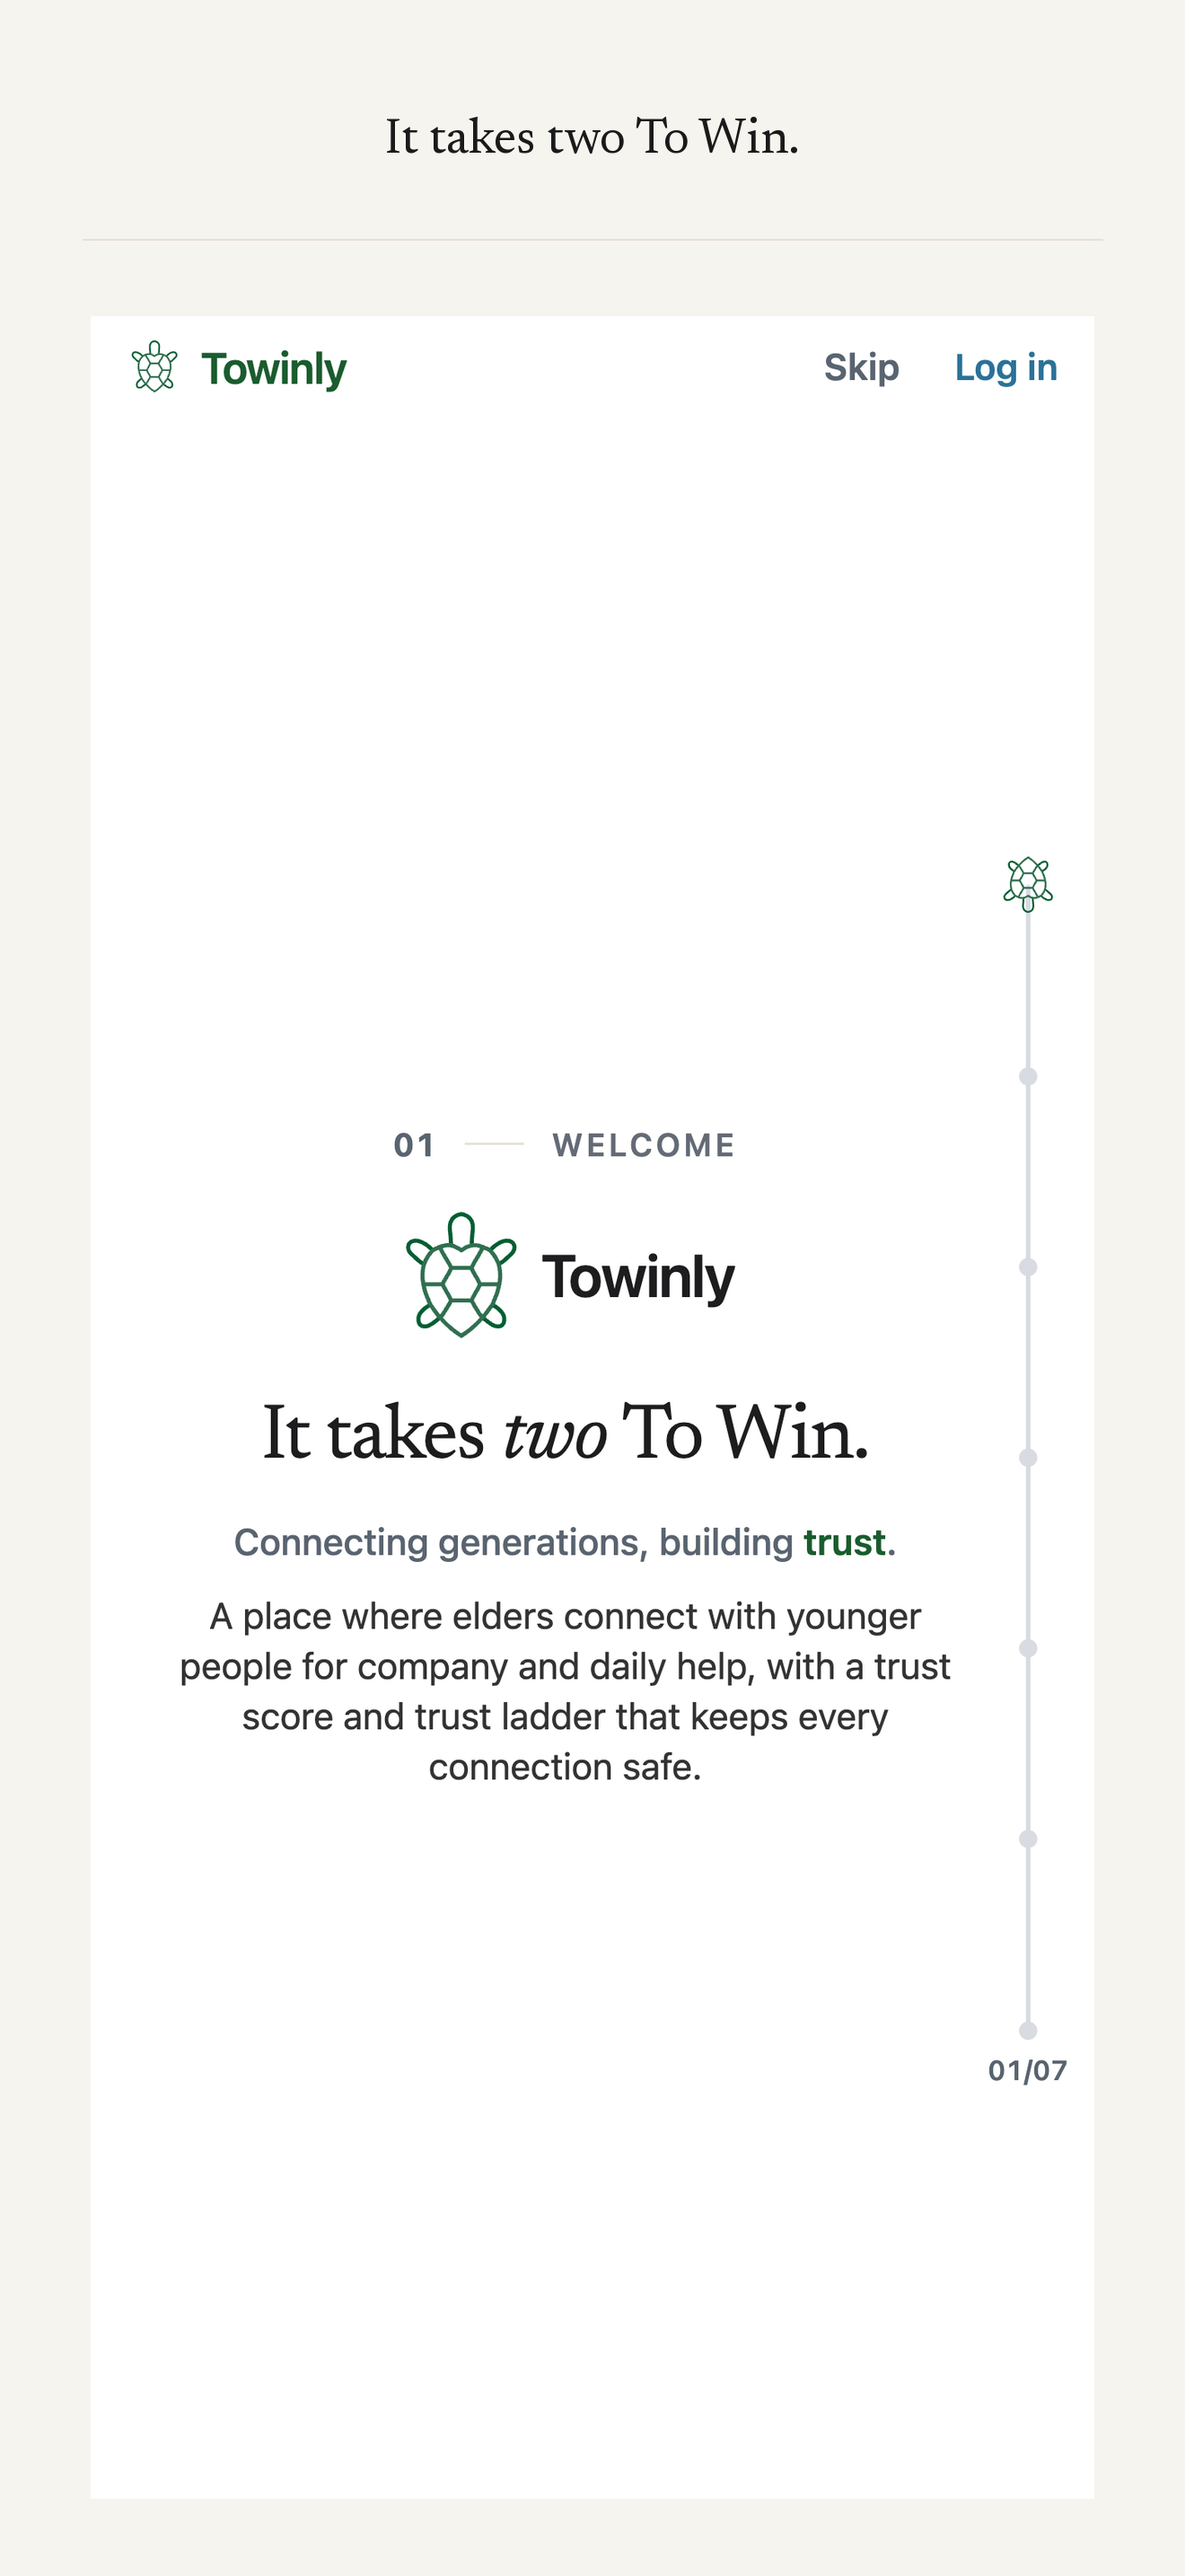
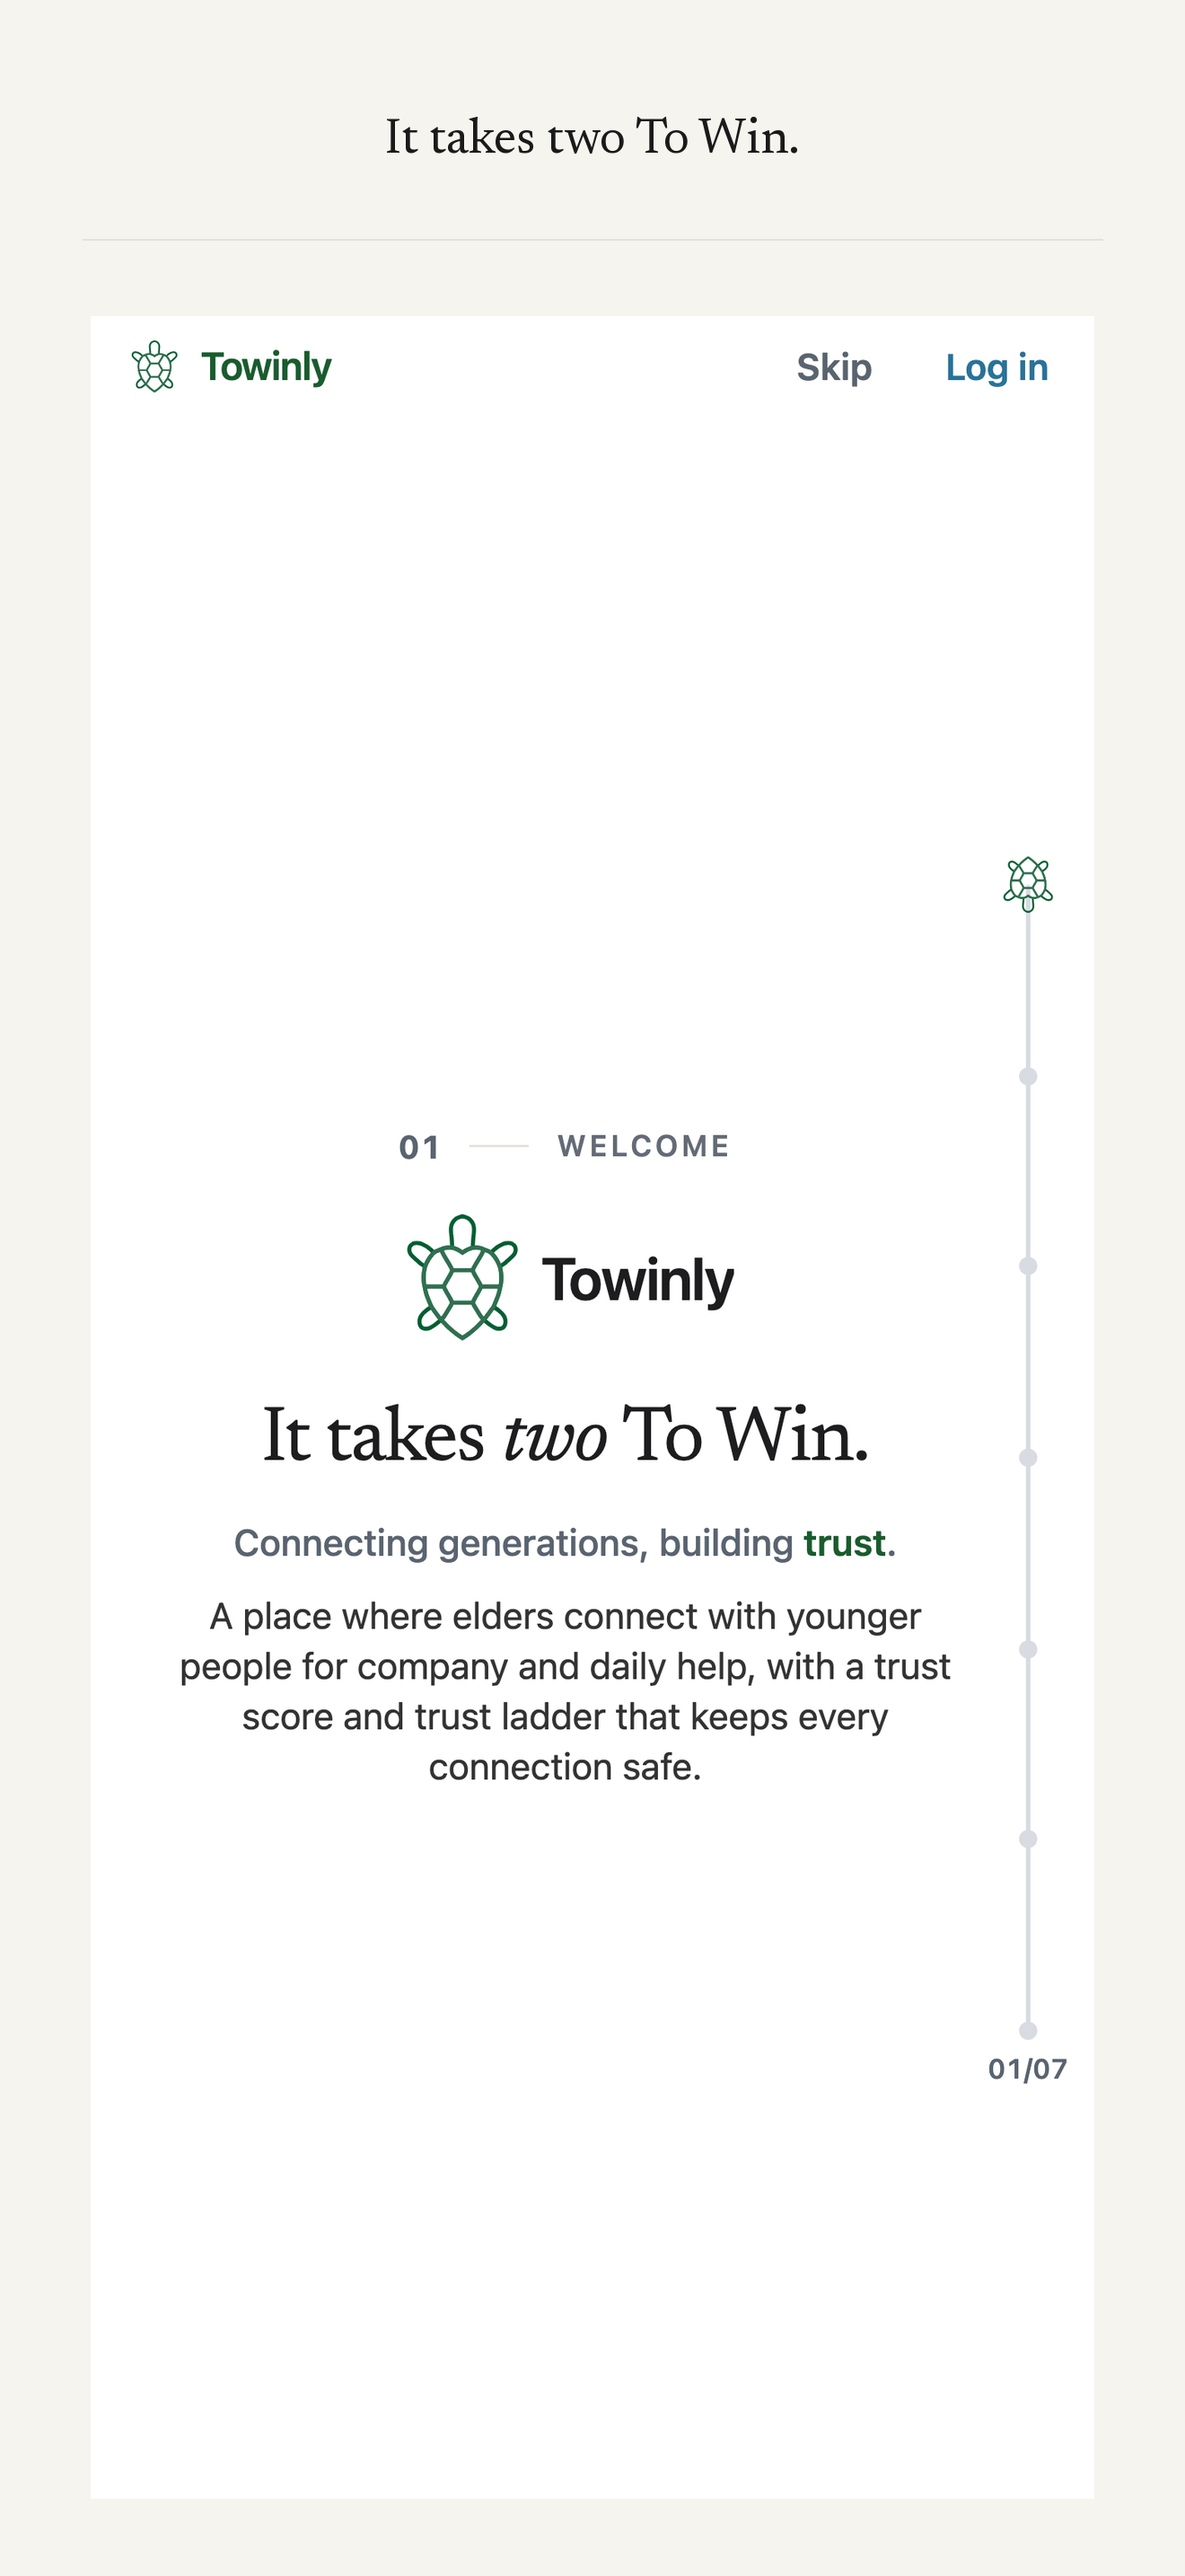
fix: HARD-117 - The store screenshots show an app that no longer exists
All eight store shots showed the UI from before the owner's
normal-density redesign of 2026-08-17 (e1e56bf): elder oversizing, the old
type ramp, parchment cards. Four of the eight screens changed again in the
location run after that, and two more changed in this hardening run. A
listing that does not match the app is a Guideline 2.3 problem and it is
the first thing a reviewer sees.

The pinned recipe worked, so they were re-captured rather than written up:
viewport 440 x 956, deviceScaleFactor 3, colorScheme light, the web
Refresh control hidden, driven through Playwright against the production
backend on all three real demo seats, from this branch. The family shot
needed no state change: Margaret's check-in for today was already true.

Nothing was deleted. The eight previous raws and all sixteen previous
baked files moved with git mv to
screenshots/superseded/2026-08-11-pre-normal-density/, with a README
saying why. The eight raws nothing bakes from were left alone and are
marked historical rather than silently re-shot.

bake_screenshots.py rendered both store sizes from the new raws and
npx jest store-screenshots passes 23 of 23.

diff --git a/docs/store/screenshot-inventory.md b/docs/store/screenshot-inventory.md
@@ -139,9 +139,9 @@ measured with `sips` after capture, not eyeballed.
 
 | File | Size | Alpha | Bytes | What proves the caption |
 |---|---|---|---|---|
-| `raw-14-helper-trust-score.png` | 1320 x 2868 | no | 297,057 | The HELPER seat. The page reads "up to 15 points: 7 for growing trust together, 5 from their review, and 3 for your profile", and Grace Liu's row shows Trust stages 7/7, Their review 5/5, Your profile 3/3. This is the split caption 4 claims, and it is not the elder's 7 + 5 + 2 + 1 |
-| `raw-15-chat-thread.png` | 1320 x 2868 | no | 140,875 | A thread at `/chat/56c5d9ed-...`, not the conversation list. Three real seeded messages between Margaret and Ethan Cole. A regex sweep of every visible string in the frame for phone-like digit runs returned none |
-| `raw-16-family-parent-checked-in.png` | 1320 x 2868 | no | 302,445 | `app/family/parent/[elderId].jsx` at `/family/parent/f5b309df-...`, with the chip reading "Checked in today" in the achieved green. Measured, not assumed: 3,847 pixels within tolerance 25 of `greenDeep` `#1a5c2e` sit in the chip band, bounded to x 104 to 501, y 484 to 522 |
+| `raw-14-helper-trust-score.png` | 1320 x 2868 | no | 319,857 | The HELPER seat. The page reads "up to 15 points: 7 for growing trust together, 5 from their review, and 3 for your profile", and Grace Liu's row shows Trust stages 7/7, Their review 5/5, Your profile 3/3. This is the split caption 4 claims, and it is not the elder's 7 + 5 + 2 + 1 |
+| `raw-15-chat-thread.png` | 1320 x 2868 | no | 131,624 | A thread at `/chat/34ea7adc-...`, not the conversation list. Three real seeded messages between Margaret and Ethan Cole. A regex sweep of every visible string in the frame for phone-like digit runs returned none |
+| `raw-16-family-parent-checked-in.png` | 1320 x 2868 | no | 266,767 | `app/family/parent/[elderId].jsx` at `/family/parent/f5b309df-...`, with the chip reading "Checked in today" in the achieved green. Measured, not assumed: 3,847 pixels within tolerance 25 of `greenDeep` `#1a5c2e` sit in the chip band, bounded to x 104 to 501, y 484 to 522 |
 
 ### Re-captured at phone scale on 2026-08-15, under APL-805
 
@@ -201,16 +201,25 @@ must hide it the same way.
 
 Raws 01 to 13 came from the build that was live on 2026-08-11, commit
 `af22521`. Raws 14 to 16 came from the build live on 2026-08-15. Sixteen raws in
-total, and none of them contains Edit Profile.
+total, and none of them contains Edit Profile. The eight the manifest bakes from
+were replaced on 2026-08-22 from `ralph/store-hardening`.
 
-**All sixteen are now stale, and so are the eight baked shots (2026-08-22).**
-The owner's normal-density redesign of 2026-08-17 removed the elder oversizing,
-changed the type ramp and moved the cards to white, and the location run changed
-four more screens after that. Every capture predates both. Re-capture before the
-next submission: the runbook is in the store owner-actions page and the
-pinned recipe is in this file. Nothing here is deleted; superseded files move to
-`screenshots/superseded/`.
+**The eight the manifest uses were RE-CAPTURED on 2026-08-22 (HARD-117.)**
+They had gone stale twice over: the owner's normal-density redesign of
+2026-08-17 (`e1e56bf`) removed the elder oversizing, changed the type ramp and
+moved the cards to white, and the location run changed four more screens after
+that. Every capture predated both.
 
-(This paragraph used to end "None of the 13 shots contain Edit Profile, so all
-13 remain accurate." It was written when there were thirteen, and it stayed
-after the count reached sixteen and after the UI changed under all of them.)
+The eight now on disk came from this branch, through the pinned recipe, against
+the production backend and the three real demo seats. The other eight raws
+(01, 03, 04, 05, 06, 08, 09, 11) are NOT re-captured: nothing bakes from them,
+they are reference material, and they still show the old UI. Treat them as
+historical until something needs them.
+
+Nothing was deleted. The eight previous raws and all sixteen previous baked
+files moved to `screenshots/superseded/2026-08-11-pre-normal-density/`.
+
+(The paragraph this replaced ended "None of the 13 shots contain Edit Profile,
+so all 13 remain accurate." It was written when there were thirteen, and it
+stayed after the count reached sixteen and after the UI changed under all of
+them.)

diff --git a/docs/store/README.md b/docs/store/README.md
@@ -81,7 +81,7 @@ Apple or Google, so all of it can close before enrollment.
 | A5 | ~~**EAS is not set up.**~~ **CLOSED.** `app.json` carries `owner: harshavardhan_ag` and `extra.eas.projectId: 6cf0141c-c99a-4663-87df-12f271989e7b`. A fresh shell still needs `eas login`. | Done |
 | A6 | ~~**The production PostHog flag is unverified.**~~ **CLOSED 2026-08-15.** It was set, the owner cleared it, the backend redeployed, and the read-back showed the key absent. The privacy forms stand as written. | Done |
 | A7 | ~~**The photo permission sentence is too narrow.**~~ **CLOSED.** `app.json` `photosPermission` now names the profile picture and the optional ID photo. | Done |
-| A8 | ~~**No final screenshots exist.**~~ **PARTLY CLOSED.** 8 shots are baked under `screenshots/final/ios/`, which clears both store minimums. They show the pre-2026-08-17 UI and need re-capturing: see HARD-117. | Repo, then human review |
+| A8 | ~~**No final screenshots exist.**~~ **CLOSED 2026-08-22.** 8 shots are baked under `screenshots/final/ios/` and `final/play/`, re-captured from the current UI and guarded by `__tests__/store-screenshots.test.js`. What remains is the owner's eye on them before upload. | Repo done, human review |
 
 ### Group B: these need the paid accounts
 
@@ -291,9 +291,10 @@ until the owner picks one" for a week after they had picked.)
 are baked under `App/docs/store/screenshots/final/ios/`, which clears both store
 minimums. The canonical output path is that folder and not `docs/store-images/`,
 because the git repository root is `App/` and the project root is not versioned.
-(Corrected 2026-08-22: this said five of eight. `ls` returns eight. What is
-actually wrong with them is their age, not their number: every one shows the
-pre-2026-08-17 UI. See HARD-117 and the owner runbook.)
+(Corrected 2026-08-22: this said five of eight, and `ls` returns eight. What
+was actually wrong with them was their age: every one showed the pre-2026-08-17
+UI. All eight were re-captured the same day from `ralph/store-hardening`, and
+`npx jest store-screenshots` passes 23 of 23 against the new set.)
 
 Checked and confirmed while resolving the above:
 

diff --git a/docs/store/screenshots/superseded/README.md b/docs/store/screenshots/superseded/README.md
@@ -22,3 +22,26 @@ these stay as the evidence of what changed and why.
 
 File size was the first tell: a phone-scale capture of these screens runs
 141 KB to 303 KB, roughly three times these.
+
+---
+
+## 2026-08-11 set, superseded on 2026-08-22 (HARD-117)
+
+`2026-08-11-pre-normal-density/` holds the eight raws the store manifest bakes
+from, plus all sixteen baked files (eight iOS, eight Play), as they stood before
+this date.
+
+Why they were replaced: every one of them shows the UI as it was before the
+owner's normal-density redesign of 2026-08-17 (`e1e56bf`), which removed the
+elder oversizing, changed the type ramp and moved the cards from parchment to
+white. Four of the eight screens changed again in the location run that followed.
+A store screenshot that does not match the app is a Guideline 2.3 accurate
+metadata problem, and it is the first thing a reviewer sees.
+
+The replacements came from `ralph/store-hardening` through the pinned recipe in
+`screenshot-inventory.md`: viewport 440 x 956, deviceScaleFactor 3, colorScheme
+light, the web Refresh control hidden, against the production backend and the
+three real demo seats.
+
+Nothing here is deleted. These files are the record of what the listing would
+have shown.

diff --git a/docs/store/ACTION-CHECKLIST.md b/docs/store/ACTION-CHECKLIST.md
@@ -170,9 +170,13 @@ hour spent here is an hour not spent on the meter.
   16 captures (`raw-01` to `raw-16`) in `App/docs/store/screenshots/`, every one
   at 1320 x 2868 (Apple's iPhone 6.9 inch size), taken from the live phone web
   build with real seeded data on all three demo seats. No Xcode, Android SDK or
-  physical phone was needed. **They are now stale:** every one shows the
-  pre-2026-08-17 UI. See HARD-117.
-  (Corrected 2026-08-22: this said thirteen.)
+  physical phone was needed.
+  **Re-captured 2026-08-22 (HARD-117).** The originals showed the pre-2026-08-17
+  UI. The eight the store manifest bakes from were shot again from
+  `ralph/store-hardening` through the pinned recipe; the other eight are
+  reference material and were left as history. Nothing deleted, everything
+  superseded moved to `screenshots/superseded/2026-08-11-pre-normal-density/`.
+  (Corrected 2026-08-22: this said thirteen captures.)
 - [ ] **Recruit 12 testers for Google's closed test and keep them enrolled 14
   consecutive days.** [owner] Required before a personal Play account gets
   production access. Blocks the Android launch and is the longest single item,
